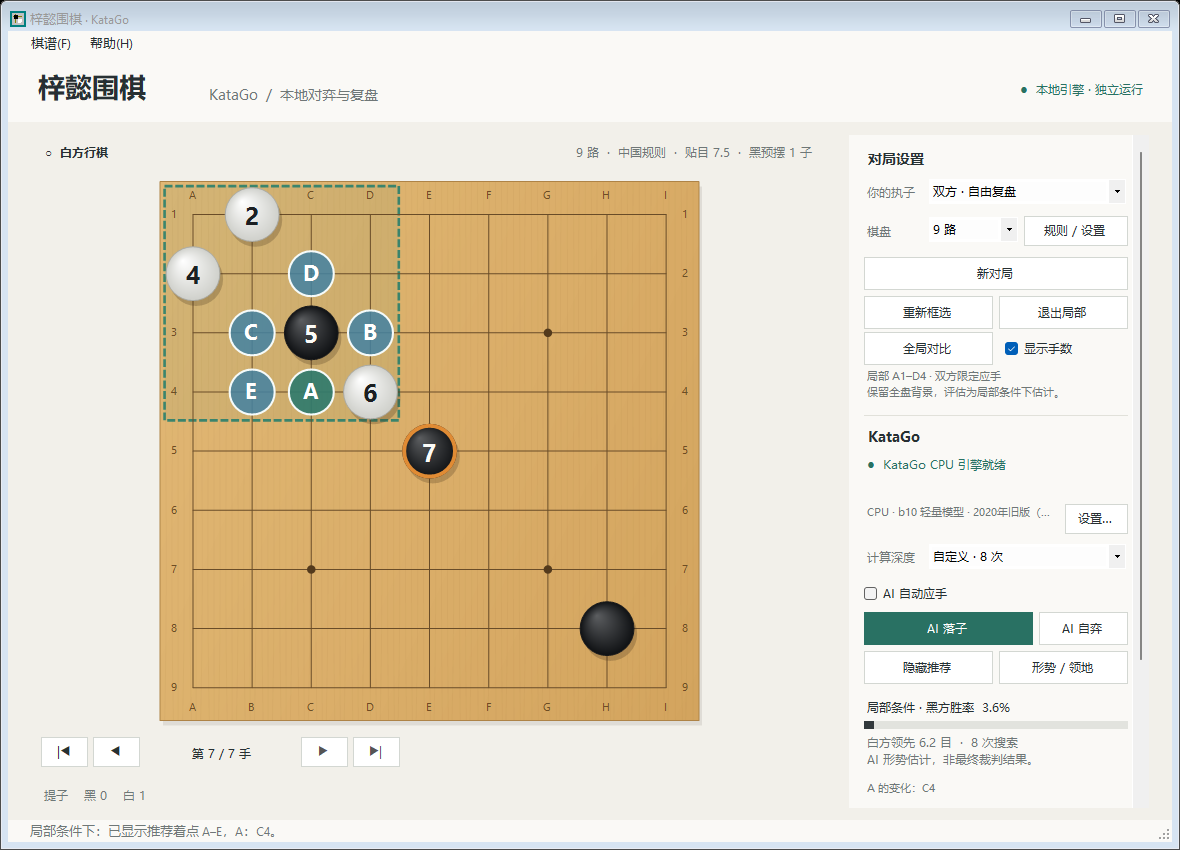
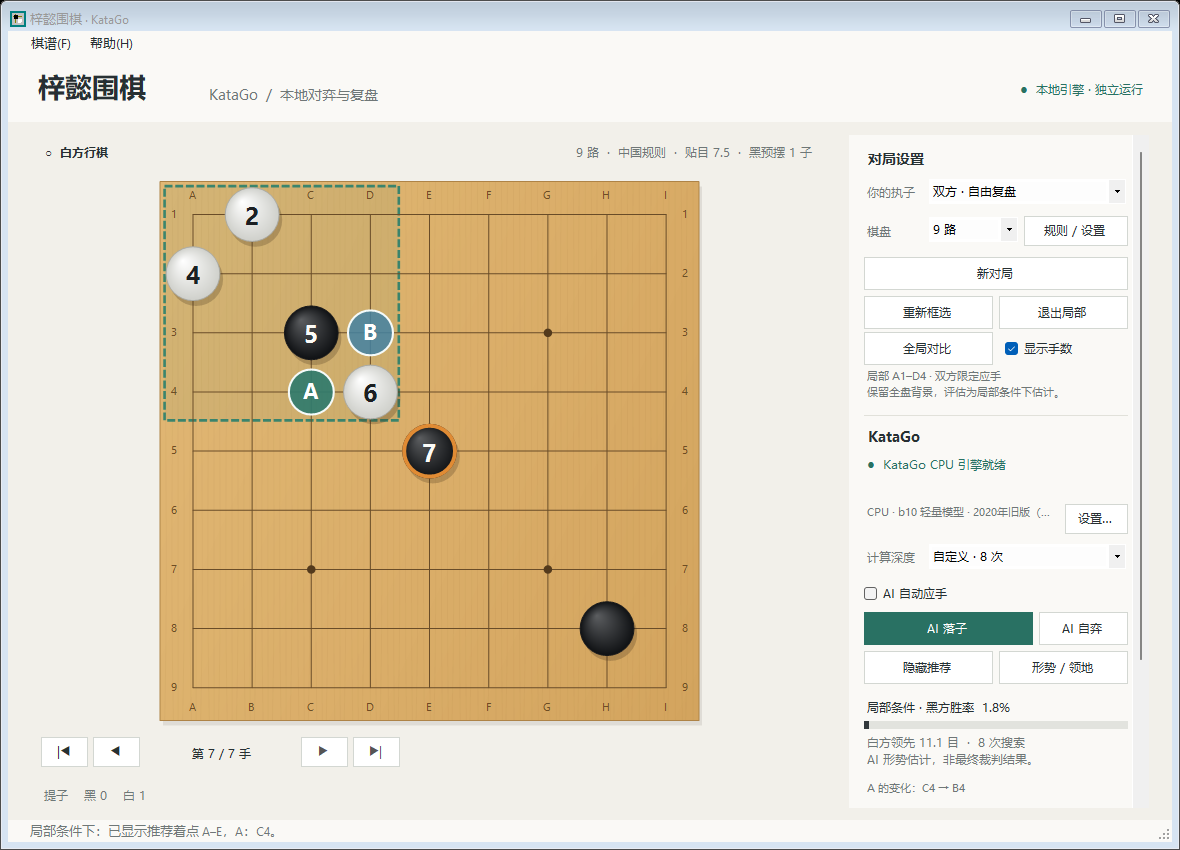
Keep local and global study comparisons on the same position

Changed region(s): [[0.1831, 0.3671, 0.2441, 0.4894], [0.7627, 0.8565, 0.8847, 0.8871], [0.2441, 0.2753, 0.3051, 0.3671]]

diff --git a/src/UiSmoke.cs b/src/UiSmoke.cs
@@ -262,11 +262,13 @@ namespace GoDesk
                 Check(((Label)form.Controls.Find("AnalysisVariation", true)[0]).Text.Length > 0, "Local recommendation has no displayed principal variation");
                 form.CaptureScreenshot(Path.Combine(outputFolder, "desktop-local-study.png"));
 
+                string comparedLocalMove = board.Analysis.BestMove;
                 compare.PerformClick(); await WaitIdle(form);
                 Check(board.Analysis != null && board.Analysis.Region == null && form.CurrentGame.ToSgf() == before && form.CurrentGame.Position == 7,
                     "Global comparison applied a move or retained a local restriction");
                 CheckSameRegion(board.StudyRegion, region, "Global comparison cleared the selected study frame");
                 CheckSameRegion((StudyRegion)Field(form, "studyRegion"), region, "Global comparison replaced the active local mode");
+                CheckStudyComparisonSummary(form, comparedLocalMove, board.Analysis.BestMove, 9, 7);
                 Check(hints.Text == "返回局部推荐", "Global comparison did not expose a direct return-to-local action");
                 hints.PerformClick(); await WaitIdle(form);
                 CheckUiRestrictedAnalysis(board.Analysis, region, 9);
@@ -287,6 +289,25 @@ namespace GoDesk
                 Check(!played.IsPass && played.Color == Stone.White && region.Contains(played.X, played.Y), "AI move after comparison escaped the region or changed turn color");
                 CheckUiRestrictedAnalysis(board.Analysis, region, 9);
                 Check(MoveNumbers.Build(form.CurrentGame)[played.X, played.Y] == 8, "Local play restarted move numbering instead of keeping the original ply");
+                Check(Field(form, "studyComparisonSummary") == null && (int)Field(form, "analysisPosition") == -1,
+                    "An applied AI move retained a comparison summary or tagged its old local analysis as current");
+
+                string afterAiMove = form.CurrentGame.ToSgf();
+                compare.PerformClick(); await WaitIdle(form);
+                Check(board.Analysis != null && board.Analysis.Region == null && Field(form, "studyComparisonSummary") == null &&
+                    (int)Field(form, "analysisPosition") == 8 && form.CurrentGame.Position == 8 && form.CurrentGame.ToSgf() == afterAiMove,
+                    "Post-move global comparison paired stale local analysis or modified the new position");
+                CheckSameRegion(board.StudyRegion, region, "Post-move global comparison cleared the study frame");
+                hints.PerformClick(); await WaitIdle(form);
+                CheckUiRestrictedAnalysis(board.Analysis, region, 9);
+                Check((int)Field(form, "analysisPosition") == 8 && form.CurrentGame.ToSgf() == afterAiMove,
+                    "Returning to local analysis failed to tag the new unchanged position");
+                comparedLocalMove = board.Analysis.BestMove;
+                compare.PerformClick(); await WaitIdle(form);
+                CheckStudyComparisonSummary(form, comparedLocalMove, board.Analysis.BestMove, 9, 8);
+                Check(form.CurrentGame.Position == 8 && form.CurrentGame.ToSgf() == afterAiMove,
+                    "Fresh same-position comparison applied another move");
+                CheckSameRegion(board.StudyRegion, region, "Fresh comparison changed the active study frame");
 
                 human.SelectedIndex = 0;
                 automatic.Checked = true;
@@ -424,6 +445,15 @@ namespace GoDesk
         private static void CheckSameRegion(StudyRegion actual, StudyRegion expected, string message)
         {
             Check(actual != null && actual.Left == expected.Left && actual.Top == expected.Top && actual.Right == expected.Right && actual.Bottom == expected.Bottom, message);
+        }
+
+        private static void CheckStudyComparisonSummary(MainForm form, string localMove, string globalMove, int size, int position)
+        {
+            string summary = (string)Field(form, "studyComparisonSummary");
+            Check(!String.IsNullOrEmpty(summary) && summary.Contains("局部 A：" + BoardCoordinates.FromGtp(localMove, size)) &&
+                summary.Contains("全局 A：" + BoardCoordinates.FromGtp(globalMove, size)), "Same-position comparison summary omits or mismatches its two coordinates");
+            Check((int)Field(form, "analysisPosition") == position && ((Label)form.Controls.Find("StudyRegionStatus", true)[0]).Text.Contains(summary),
+                "Comparison summary is not displayed for its actual analyzed position");
         }
 
         private static void CheckUiRestrictedAnalysis(AnalysisResult result, StudyRegion expected, int size)

diff --git a/src/MainForm.cs b/src/MainForm.cs
@@ -29,6 +29,7 @@ namespace GoDesk
         private CheckBox moveNumbersBox;
         private Label studyRegionStatus, variationLabel;
         private string studyComparisonSummary;
+        private int analysisPosition = -1;
         private ComboBox humanBox, sizeBox, difficultyBox;
         private CheckBox automaticBox;
         private Button aiButton, hintButton, scoreButton, passButton, undoButton, cancelButton, selfPlayButton;
@@ -509,7 +510,7 @@ namespace GoDesk
         private async Task CompareGloballyAsync()
         {
             if (studyRegion == null) { SetStatus("请先框选局部，再比较全盘推荐。"); return; }
-            AnalysisResult localResult = analysis != null && analysis.Region != null ? analysis : null;
+            AnalysisResult localResult = analysis != null && analysis.Region != null && analysisPosition == game.Position ? analysis : null;
             CancelAnalysis(); board.SelectingRegion = false; ClearAnalysis();
             int comparisonGeneration = generation + 1;
             await RunAnalysisAsync(false, false, true);
@@ -538,13 +539,15 @@ namespace GoDesk
             {
                 AnalysisResult result = await engine.AnalyzeAsync(game, Visits, ownership, partial => ShowAnalysisProgress(stamp, partial, play, ownership), requestedRegion);
                 if (closing || stamp != generation) return;
-                analysis = result; board.Analysis = result; board.ShowHints = !play && !ownership; board.ShowOwnership = ownership;
+                analysis = result; analysisPosition = game.Position; studyComparisonSummary = null;
+                board.Analysis = result; board.ShowHints = !play && !ownership; board.ShowOwnership = ownership;
                 if (play)
                 {
                     string error;
                     Move selected = GoGame.ParseGtp(result.BestMove, game.ToPlay, game.Size);
                     if (requestedRegion != null && (selected.IsPass || !requestedRegion.Contains(selected.X, selected.Y))) throw new InvalidOperationException("AI 返回了研究范围外的着法，已拒绝落子。");
                     if (!game.TryPlayMove(selected, out error)) throw new InvalidOperationException("引擎返回的着点无法落子：" + error);
+                    analysisPosition = -1; studyComparisonSummary = null;
                     if (!selected.IsPass) stoneSound.Play();
                     board.ShowHints = false; board.ShowOwnership = false;
                     SetStatus("KataGo：" + selected.ToDisplay(game.Size) + "。" + (game.IsOver ? "双方连续停着，对局结束。" : selfPlaying ? "AI 正在自弈。" : "轮到你了。"));
@@ -572,7 +575,8 @@ namespace GoDesk
                 return;
             }
             if (stamp != generation || !thinking) return;
-            analysis = result; board.Analysis = result; board.ShowHints = !play && !ownership; board.ShowOwnership = ownership;
+            analysis = result; analysisPosition = game.Position; studyComparisonSummary = null;
+            board.Analysis = result; board.ShowHints = !play && !ownership; board.ShowOwnership = ownership;
             UpdateUi();
             if (!stopping) SetStatus("已搜索 " + result.Visits.ToString("N0", CultureInfo.InvariantCulture) + " 次，当前最佳 " + BoardCoordinates.FromGtp(result.BestMove, game.Size) + "。可结束思考采用当前结果。");
         }
@@ -590,7 +594,7 @@ namespace GoDesk
         private void ClearAnalysis()
         {
             analysis = null; board.Analysis = null; board.ShowHints = false; board.ShowOwnership = false;
-            studyComparisonSummary = null;
+            studyComparisonSummary = null; analysisPosition = -1;
             if (variationLabel != null) { variationLabel.Text = ""; variationLabel.Visible = false; }
             hintButton.Text = "推荐着点"; scoreButton.Text = "形势 / 领地";
         }
